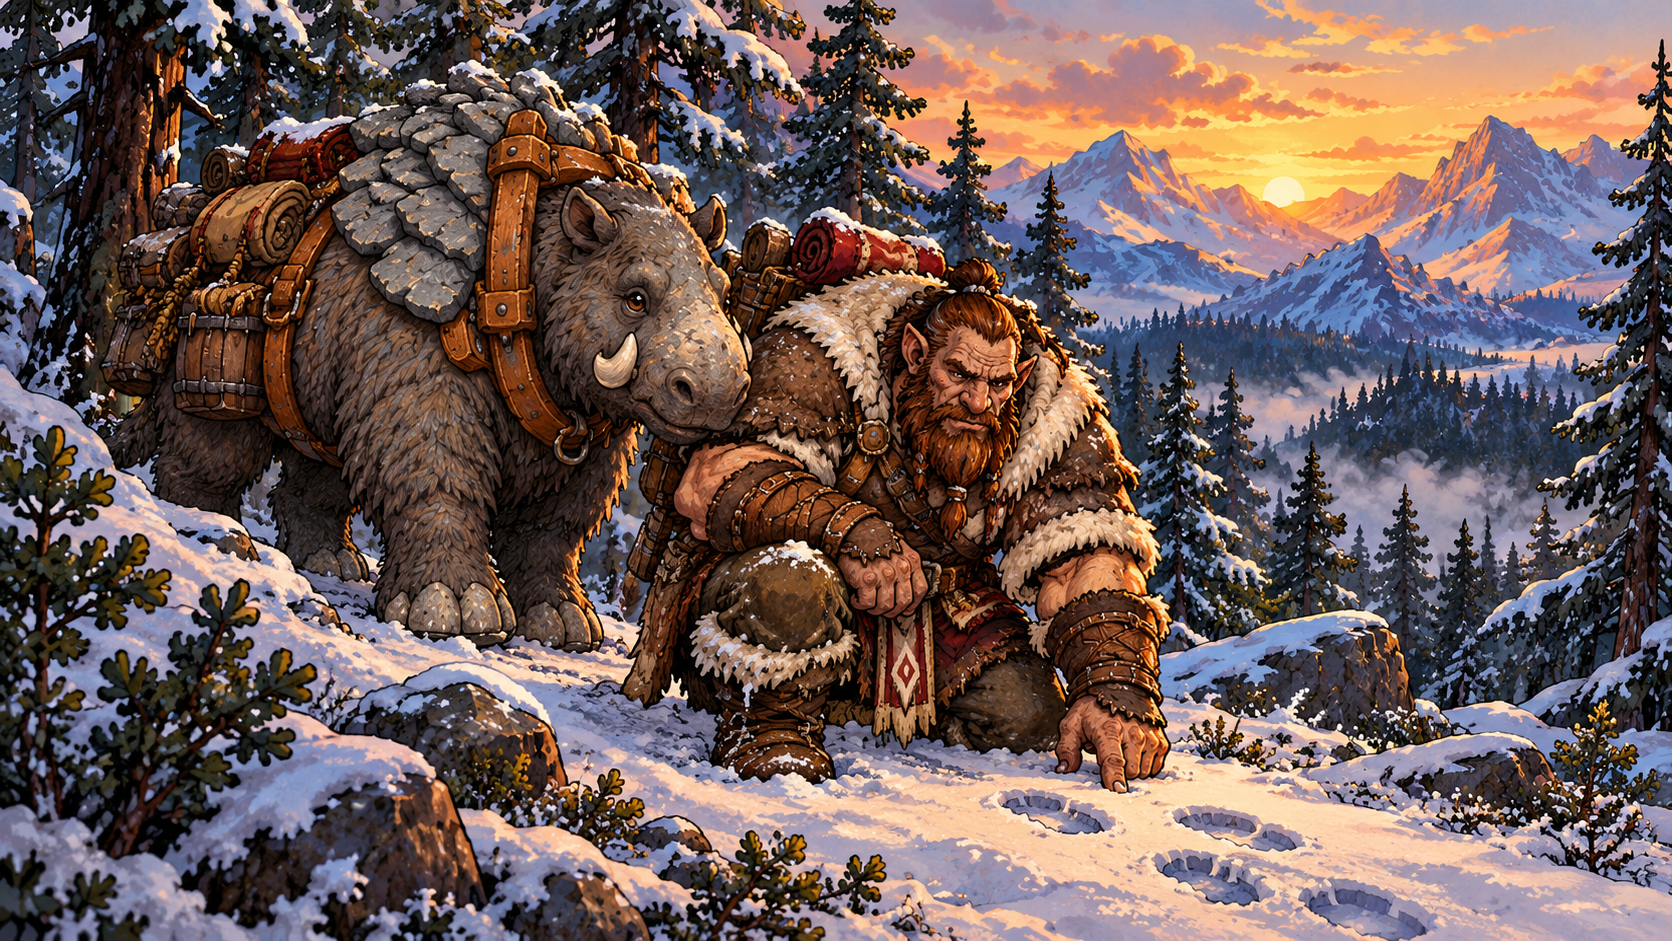
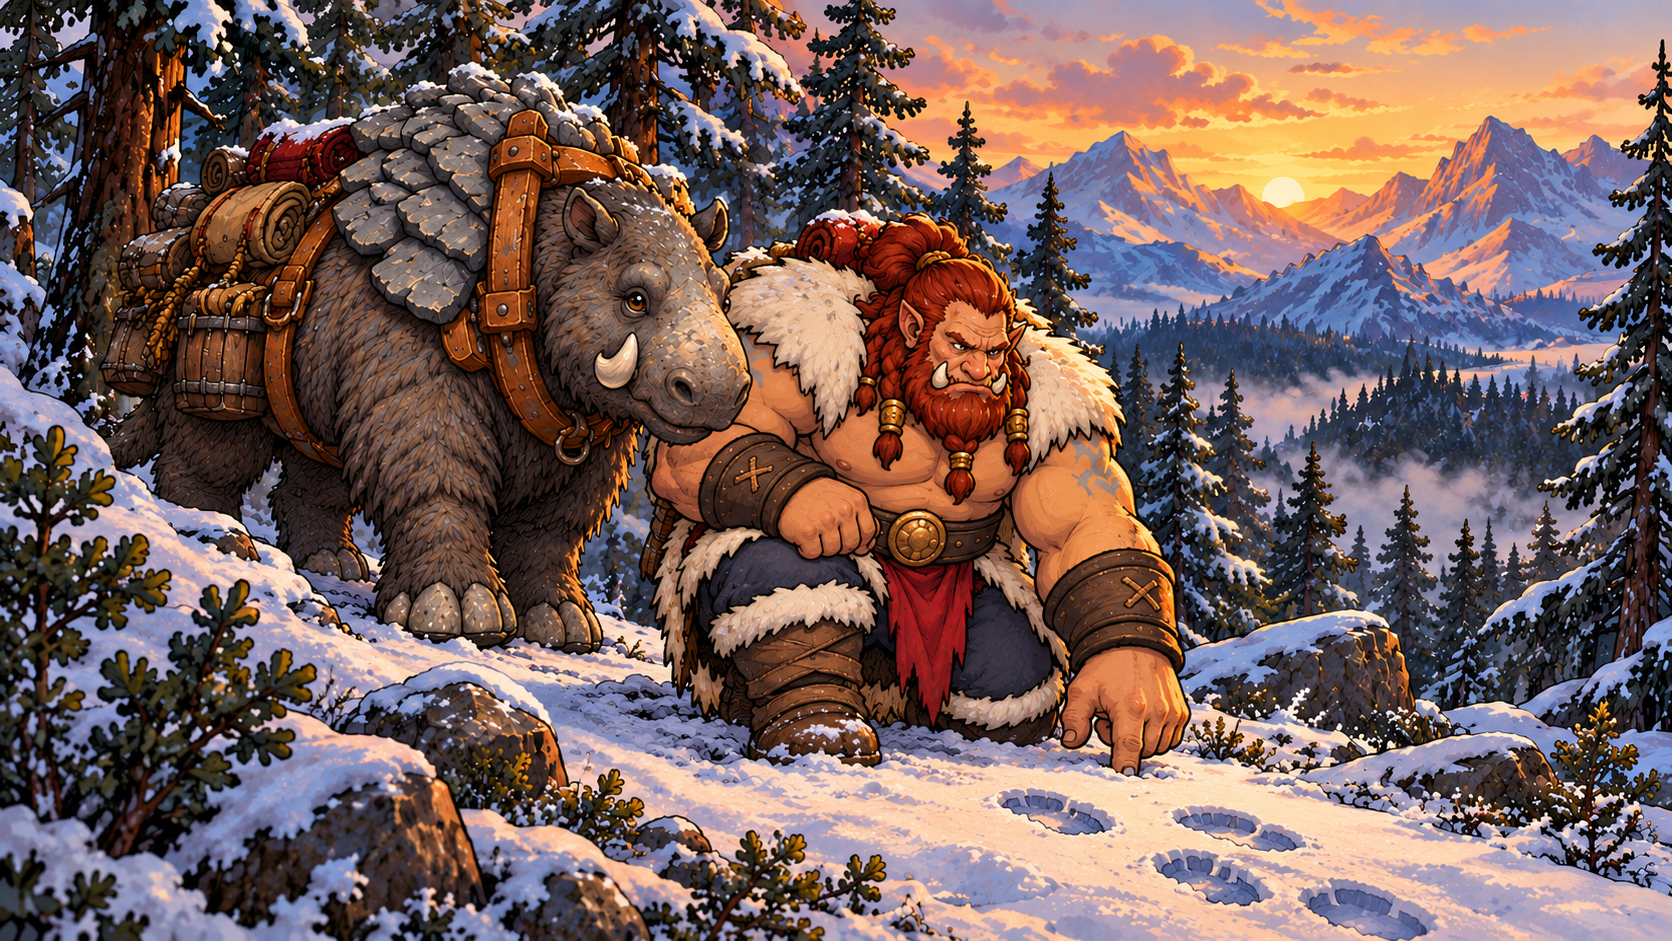
Match loading art to in-game Ogre designs [skip ci]

diff --git a/docs/LOADING_ART_PROMPTS.md b/docs/LOADING_ART_PROMPTS.md
@@ -4,7 +4,7 @@ Built-in image generation. These are generated illustrations in the game's exist
 
 Tracking (`assets/loading/tracking.png`): An imposing bearded Ogre hunter examines fresh tracks in a snowy pine forest alongside Flint, his healthy, living shaggy stone-plated companion. Mountain dawn and an adventurous, warm mood; no wounded animals, carcasses, blood, text or UI. Style reference: `assets/ogre/menu_camp.png`; companion reference: `assets/chapter/beast.png`.
 
-Feast (`assets/loading/feast.png`): A close-knit clan of mighty Ogres, including physically imposing elders, enjoys hearty prepared food, drink and stories around their traveling hearth at night. A friendly animal companion rests nearby. Warm firelight, belonging and abundance; no injured animals, carcasses, blood, text or UI. Style reference: `assets/ogre/menu_camp.png`.
+Feast (`assets/loading/feast.png`): A rugged Ogre clan shares food and stories around their traveling hearth, with goblins on a spit adding dark humor. The Ogres' proportions, features and attire follow the existing game art; Flint rests safely nearby. References: `assets/loading/frontier.png`, `assets/loading/tracking.png`, and `assets/ogre/menu_camp.png`.
 
 Battle (`assets/loading/frontier.png`): An enormous Ogre warrior swings an uprooted trunk against small goblin raiders in a rugged mountain pass at sunset; energetic scale, colorful inked 2D fantasy illustration, no text or UI. Style reference: `assets/ogre/menu_camp.png`.
 
@@ -12,4 +12,27 @@ Battle (`assets/loading/frontier.png`): An enormous Ogre warrior swings an uproo
 
 Tracking: Create a widescreen loading-screen illustration for the fantasy game Hearth and Hunger. Image 1 is the visual-style and camp reference; image 2 is the appearance reference for Flint, the gentle gray shaggy tusked stone-eating pack beast with stone plates and a leather harness. An enormous imposing bearded adult Ogre hunter in practical furs and leather quietly tracks fresh footprints through a snowy pine forest, kneeling to examine the trail while his healthy living animal companion Flint stands close beside him. Snow-covered mountains in the distance, soft dawn light, trust between the hunter and his companion, a feeling of adventure and anticipation. Original colorful inked illustrated 2D game style consistent with image 1, wide full-bleed image. All animals alive and unharmed. No visible prey, carcasses, raw meat, wounds, blood, gore, violence, text, logos, or UI.
 
-Feast: Create a widescreen loading-screen illustration for Hearth and Hunger. Use the reference for the original colorful, inked 2D fantasy-game style and red-and-ivory traveling Ogre camp. A close-knit Ogre clan of distinct massive adults, including strong imposing older male and female Ogres and younger adults, gathers around a great outdoor hearth to feast together in a warm traveling camp at night. Hearty cooked food served on platters and bowls, tankards, laughter, stories, relaxed friendly animal companion resting nearby; a genuine sense of family, strength, abundance and belonging. No visible identifiable dead animals, carcasses, raw meat, wounds, blood, gore, violence, text, logos, or UI. Full-bleed widescreen composition, vivid warm firelight and cool night sky.
+Previous 0.8.3 feast (superseded): Create a widescreen loading-screen illustration for Hearth and Hunger. Use the reference for the original colorful, inked 2D fantasy-game style and red-and-ivory traveling Ogre camp. A close-knit Ogre clan of distinct massive adults, including strong imposing older male and female Ogres and younger adults, gathers around a great outdoor hearth to feast together in a warm traveling camp at night. Hearty cooked food served on platters and bowls, tankards, laughter, stories, relaxed friendly animal companion resting nearby; a genuine sense of family, strength, abundance and belonging. No visible identifiable dead animals, carcasses, raw meat, wounds, blood, gore, violence, text, logos, or UI. Full-bleed widescreen composition, vivid warm firelight and cool night sky.
+
+
+## Revised feast prompt for 0.8.4
+
+Create one widescreen in-game loading illustration for the adult fantasy game Hearth and Hunger, consistent with ALL THREE reference images. Images 1 and 2 are the definitive Ogre character and illustration designs: huge, imposing, hulking muscular broad-bodied Ogres with distinctive heavy brows, tusks, rough features and weathered natural skin, wearing rugged hides, crude iron and furs. Image 3 is their red-and-ivory traveling camp. Show an Ogre clan, including powerful imposing older female and male Ogres, feasting and trading stories in their encampment around a big fire at dusk. Their camaraderie is real, but they are dangerous Ogres, not cute, not human villagers, not cheerful Disney characters: rugged faces, tusks, heavy builds, mischievous grins, coarse earthy humor, a somewhat ominous rugged mood. On the fire, clearly recognizable small green fantasy goblins like those in reference 1 are being roasted on a large spit, played as dark fantasy humor with a visual matter-of-factness; no close-up wounds or graphic detail. The spit is visible behind the foreground feast. Show a healthy shaggy stone-plated animal companion resting safely at the edge of camp, with absolutely no injured animals or animal carcasses. Confident ink outlines, hand-painted 2D game illustration, palette and anatomy closely matching images 1 and 2, a full-bleed cinematic wide composition. No text, logos, or UI.
+
+## Character-matched revisions for 0.8.4
+
+Tracking references: `assets/loading/tracking.png` (prior composition), `assets/ogre/hearthlord_motion.png`, `assets/chapter/beast.png`.
+
+Prompt: Revise the first image into a widescreen loading illustration for the same game, preserving its snowy tracking composition, quiet dawn, mountain landscape and healthy animal companion. Crucially replace the hunter with the exact Ogre character design in reference image 2, the actual in-game sprite: a very large broad, stocky muscular adult Ogre with a broad square heavy brow and face, prominent curved lower tusks flanking his mouth, long red hair and red beard in braids with gold bands, a thick white fur mantle, brown leather bracers, broad belt and red waistcloth. His shape and face must clearly match that game sprite, not a human, dwarf, or a different monster. Reference image 3 is Flint's actual sprite: a healthy living gray shaggy tusked pack beast with stone plates on his back and a leather harness. Ogre kneels to read footprints with Flint beside him. Match the inked 2D illustration, grounded muted earthy colors and exact anatomy of the sprite, adapted into a rich single environment illustration. All animals alive and unharmed; no wounded animals, carcasses, blood, text, logos, or UI. Single full-bleed widescreen image, not a character sheet.
+
+Battle references: `assets/loading/frontier.png` (prior composition), `assets/ogre/hearthlord_motion.png`.
+
+Prompt: Revise the first image, an energetic widescreen fantasy game loading illustration of an Ogre defending himself against small green goblins by swinging an uprooted tree trunk. Keep the mountain battlefield, momentum and trunk as a weapon. Make the Ogre match the ACTUAL in-game character sprite in image 2: broad and stocky powerful muscular build, square heavy-brow face, prominent curved lower tusks flanking the mouth, long red hair and beard in braids with gold bands, thick white fur mantle, brown leather bracers and broad belt, and red waistcloth. Clearly the same character as image 2, not a bald giant, human, dwarf, or Orc. Match the established grounded inked 2D game art and earthy palette, adapted to an action illustration. Small green goblin raiders react to the swing. No injured animals or animal carcasses. No text, logos, or UI. One full-bleed widescreen composition, not a sprite sheet.
+
+Feast references: a prior generated feast scene; `assets/chapter/gorund.png`, `assets/chapter/thyra.png`, `assets/chapter/hrothgar.png`.
+
+Prompt: Revise reference image 1 into one widescreen adult-fantasy loading illustration of an Ogre clan feasting at their red-and-ivory traveling camp. Match the character designs of the ACTUAL IN-GAME SPRITES in reference images 2, 3 and 4 as closely as possible: recognizable older powerful gray-skinned white-braided male with curved lower tusks and dark fur mantle; recognizable powerful broad-built white-blonde braided female Ogre wearing green and a pale fur mantle with lower tusks; recognizable massive red-braided bearded male Ogre with lower tusks, black fur mantle, leather armor and red waistcloth. Their faces, fur clothing, skin tones, stocky proportions and tusks should follow the sprites rather than the more monstrous caricatures in image 1. These are the same established clan, not ordinary humans or Orcs. Several other similar Ogres join them. They share hearty food and drink with tough, darkly funny camaraderie; retain the recognizable small green goblins roasting on a spit over the campfire as a matter-of-fact dark joke, without graphic close-ups. A healthy shaggy stone-plated pack animal rests safely at the edge of camp. No hurt animals, animal carcasses, text or logos. Grounded, richly inked 2D game illustration, earthy palette and understated expressions, widescreen single scene, not sprite-sheet panels.
+
+Final feast refinement references: the prior feast candidate plus `assets/chapter/gorund.png`, `assets/chapter/thyra.png`, `assets/chapter/hrothgar.png`.
+
+Prompt: Refine the first image into a single widescreen scene of the same Ogre clan feasting, preserving its composition and the goblins roasting on a spit for dark humor. There are exactly four DISTINCT Ogre clan members total: one imposing white-haired gray-skinned tusked elder man based on reference 2; one imposing powerful blonde-braided tusked woman in green and pale fur based on reference 3; one strong muscular red-haired tusked bearded man based on reference 4; and one distinct older woman with gray braids, broad build and leather/furs. Each character appears exactly once: NO duplicated people, no clones, no background characters, no reflections. Match the actual game sprite reference faces, lower tusks, stocky body shapes, fur and leather clothing and restrained inked fantasy style. At the fire, small green goblins roast on the spit as a darkly funny background detail; no close-up gore. Their living healthy gray shaggy stone-plated pack beast rests safely at camp. Adults share food and tankards with rugged camaraderie, dusk light, red-and-ivory camp, grounded earthy palette. No animal wounds or animal carcasses; no text or logos.

diff --git a/docs/SESSION_HANDOFF.md b/docs/SESSION_HANDOFF.md
@@ -1,6 +1,6 @@
-# Loading-art revision — work in progress
+# Ogre feast art revision — work in progress
 
-The user disliked the injured boar in the loading artwork, likes animals, and requested a snowy tracking scene with an animal companion and another depicting an Ogre clan feast. They explicitly corrected a misinterpretation: combat violence, blood and existing finishers should remain unchanged. Replace the loading image, add the feast to the rotation and preserve the existing battle loading image. New images must show no wounded animals. 0.8.3 is not yet released; the existing public 0.8.2 remains available.
+The user requested that the clan feast feel like Ogres rather than warm Disney characters, match the established game art, and have dark humor such as goblins on a spit. They also want no wounded animals on loading screens; combat violence, blood and finishers remain unchanged. Version 0.8.4 will supersede the previous loading-art build after validation.
 
 ---
 

diff --git a/docs/state/current.md b/docs/state/current.md
@@ -1,6 +1,6 @@
-# Loading-art revision — work in progress
+# Ogre feast art revision — work in progress
 
-The user disliked the injured boar in the loading artwork, likes animals, and requested a snowy tracking scene with an animal companion and another depicting an Ogre clan feast. They explicitly corrected a misinterpretation: combat violence, blood and existing finishers should remain unchanged. Replace the loading image, add the feast to the rotation and preserve the existing battle loading image. New images must show no wounded animals. 0.8.3 is not yet released; the existing public 0.8.2 remains available.
+The user requested that the clan feast feel like Ogres rather than warm Disney characters, match the established game art, and have dark humor such as goblins on a spit. They also want no wounded animals on loading screens; combat violence, blood and finishers remain unchanged. Version 0.8.4 will supersede the previous loading-art build after validation.
 
 ---
 

diff --git a/docs/state/decisions.md b/docs/state/decisions.md
@@ -1,3 +1,9 @@
+# Feast art direction
+
+The clan can enjoy a feast but should look like the Ogres in established game art, feel rugged and dangerous, and include dark humor such as goblins on a spit. Avoid wounded animals in the loading art. Combat violence and blood remain welcome.
+
+---
+
 ## October 31 — loading artwork and combat violence clarification
 
 The user likes animals and does not want to stare at a visibly wounded or bleeding animal on a loading screen. Replace the boar image with snowy tracking alongside an animal companion and add an Ogre clan feast to the loading rotation. The user explicitly corrected an overly broad interpretation: combat violence, blood and existing finishers should remain unchanged; violence is fine in quick gameplay. This applies to lingering loading artwork, not a mandate to censor combat or restrict all gore to cutscenes.

diff --git a/docs/RELEASE_0_8_4.md b/docs/RELEASE_0_8_4.md
@@ -1,0 +1,5 @@
+# Hearth and Hunger 0.8.4 — An Ogre Feast
+
+The loading-screen rotation includes an Ogre and Flint tracking through snow, the clan feasting with some dark Ogre humor, and a battle scene with an Ogre wielding a tree. All three use the in-game character sprites as design references. No wounded animals appear in the loading art.
+
+Combat violence, blood and the existing bite and swallow finishers remain unchanged. The Ogre-only menu and three independent frontier saves remain available.
